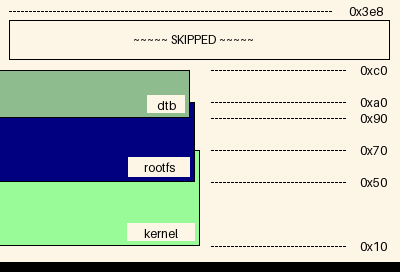
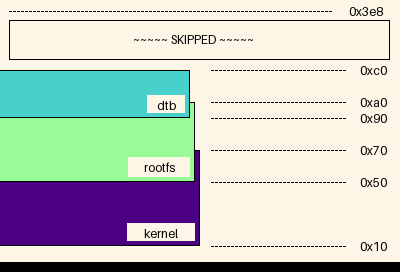
disabled colour duplicate prevention

Changed region(s): [[0.0, 0.2353, 0.51, 0.9118]]

diff --git a/tests/test_colours.py b/tests/test_colours.py
@@ -1,66 +1,66 @@
-import mm.diagram
-import unittest
-import pytest
-import mm.types
+# import mm.diagram
+# import unittest
+# import pytest
+# import mm.types
 
 
-def test_no_more_colours_but_white():
-    """ white is a forbidden colour and thare are not enough colours left for 3 regions
-    so it should pass with error """
-    with unittest.mock.patch('sys.argv',
-                             ['mmap_digram.diagram',
-                              'kernel',
-                              '0x10',
-                              '0x60',
-                              'rootfs',
-                              '0x50',
-                              '0x10',
-                              'dtb',
-                              '0x10',
-                              '0x150',
-                              "-o",
-                              f"/tmp/pytest/{__name__}.md"]):
-        # deliberately restrict the dict len=1 so we can confirm the error is raised.
-        with unittest.mock.patch('mm.types.MemoryRegion._remaining_colours',
-                                 {"white": "#000000"}):
-            with pytest.raises(SystemExit):
-                mm.diagram.MemoryMap()
+# # def test_no_more_colours_but_white():
+# #     """ white is a forbidden colour and thare are not enough colours left for 3 regions
+# #     so it should pass with error """
+# #     with unittest.mock.patch('sys.argv',
+# #                              ['mmap_digram.diagram',
+# #                               'kernel',
+# #                               '0x10',
+# #                               '0x60',
+# #                               'rootfs',
+# #                               '0x50',
+# #                               '0x10',
+# #                               'dtb',
+# #                               '0x10',
+# #                               '0x150',
+# #                               "-o",
+# #                               f"/tmp/pytest/{__name__}.md"]):
+# #         # deliberately restrict the dict len=1 so we can confirm the error is raised.
+# #         with unittest.mock.patch('mm.types.MemoryRegion._remaining_colours',
+# #                                  {"white": "#000000"}):
+# #             with pytest.raises(SystemExit):
+# #                 mm.diagram.MemoryMap()
 
 
-def test_no_more_colours_but_black():
-    """ black is not a forbidden colour but thare are not enough colours left for 3 regions
-    so it should pass with error """
-    with unittest.mock.patch('sys.argv',
-                             ['mmap_digram.diagram',
-                              'kernel',
-                              '0x10',
-                              '0x60',
-                              'rootfs',
-                              '0x50',
-                              '0x10',
-                              'dtb',
-                              '0x10',
-                              '0x150',
-                              "-o",
-                              f"/tmp/pytest/{__name__}.md"]):
-        # deliberately restrict the dict len=1 so we can confirm the error is raised.
-        with unittest.mock.patch('mm.types.MemoryRegion._remaining_colours',
-                                 {"black": "#ffffff"}):
-            with pytest.raises(SystemExit):
-                mm.diagram.MemoryMap()
+# def test_no_more_colours_but_black():
+#     """ black is not a forbidden colour but thare are not enough colours left for 3 regions
+#     so it should pass with error """
+#     with unittest.mock.patch('sys.argv',
+#                              ['mmap_digram.diagram',
+#                               'kernel',
+#                               '0x10',
+#                               '0x60',
+#                               'rootfs',
+#                               '0x50',
+#                               '0x10',
+#                               'dtb',
+#                               '0x10',
+#                               '0x150',
+#                               "-o",
+#                               f"/tmp/pytest/{__name__}.md"]):
+#         # deliberately restrict the dict len=1 so we can confirm the error is raised.
+#         with unittest.mock.patch('mm.types.MemoryRegion._remaining_colours',
+#                                  {"black": "#ffffff"}):
+#             with pytest.raises(SystemExit):
+#                 mm.diagram.MemoryMap()
 
 
-def test_only_one_lightslategr_y():
-    """ make sure 'lightslategray' is removed from the colour list """
-    with unittest.mock.patch('sys.argv',
-                             ['mmap_digram.diagram',
-                              'kernel', '0x10', '0x60',
-                              'rootfs', '0x50', '0x10'
-                              "-o", f"/tmp/pytest/{__name__}.md"],
-                             'mm.types.MemoryRegion._remaining_colours',
-                             {"lightslategray": "#778899", "lightslategrey": "#778899"}):
-        with pytest.raises(SystemExit):
-            mm.diagram.MemoryMap()
+# def test_only_one_lightslategr_y():
+#     """ make sure 'lightslategray' is removed from the colour list """
+#     with unittest.mock.patch('sys.argv',
+#                              ['mmap_digram.diagram',
+#                               'kernel', '0x10', '0x60',
+#                               'rootfs', '0x50', '0x10'
+#                               "-o", f"/tmp/pytest/{__name__}.md"],
+#                              'mm.types.MemoryRegion._remaining_colours',
+#                              {"lightslategray": "#778899", "lightslategrey": "#778899"}):
+#         with pytest.raises(SystemExit):
+#             mm.diagram.MemoryMap()
 
 
 

diff --git a/mm/types.py b/mm/types.py
@@ -70,10 +70,10 @@ class Region():
             chosen_colour_name, chosen_colour_code = random.choice(list(MemoryRegion._remaining_colours.items()))
             while int(chosen_colour_code[1:], 16) > int("A0A0A0", 16):
                 logging.debug(f"\tRejected {chosen_colour_name}({chosen_colour_code})")
-                del MemoryRegion._remaining_colours[chosen_colour_name]
+                # del MemoryRegion._remaining_colours[chosen_colour_name]
                 chosen_colour_name, chosen_colour_code = random.choice(list(MemoryRegion._remaining_colours.items()))
 
-            del MemoryRegion._remaining_colours[chosen_colour_name]
+            # del MemoryRegion._remaining_colours[chosen_colour_name]
             logging.debug(f"\tSelected {chosen_colour_name}({chosen_colour_code})")
         except (IndexError, KeyError):
             raise SystemExit("Ran out of colours!")

diff --git a/doc/example/tests.test_docs_collisions.md b/doc/example/tests.test_docs_collisions.md
@@ -1,6 +1,6 @@
 ![memory map diagram](tests.test_docs_collisions.png)
 |name|origin|size|remaining|collisions
 |:-|:-|:-|:-|:-|
-|<span style='color:palegreen'>kernel</span>|0x10|0x60|-0x20|{'rootfs': '0x50'}|
-|<span style='color:navy'>rootfs</span>|0x50|0x50|-0x10|{'kernel': '0x50', 'dtb': '0x90'}|
-|<span style='color:darkseagreen'>dtb</span>|0x90|0x30|0x328|{'rootfs': '0x90'}|
+|<span style='color:indigo'>kernel</span>|0x10|0x60|-0x20|{'rootfs': '0x50'}|
+|<span style='color:palegreen'>rootfs</span>|0x50|0x50|-0x10|{'kernel': '0x50', 'dtb': '0x90'}|
+|<span style='color:mediumturquoise'>dtb</span>|0x90|0x30|0x328|{'rootfs': '0x90'}|

diff --git a/doc/example/tests.test_docs_normal.md b/doc/example/tests.test_docs_normal.md
@@ -1,6 +1,6 @@
 ![memory map diagram](tests.test_docs_normal.png)
 |name|origin|size|remaining|collisions
 |:-|:-|:-|:-|:-|
-|<span style='color:forestgreen'>kernel</span>|0x10|0x30|0x10|{}|
-|<span style='color:darkslategray'>rootfs</span>|0x50|0x30|0x110|{}|
-|<span style='color:darkmagenta'>dtb</span>|0x190|0x30|0x228|{}|
+|<span style='color:purple'>kernel</span>|0x10|0x30|0x10|{}|
+|<span style='color:forestgreen'>rootfs</span>|0x50|0x30|0x110|{}|
+|<span style='color:saddlebrown'>dtb</span>|0x190|0x30|0x228|{}|
